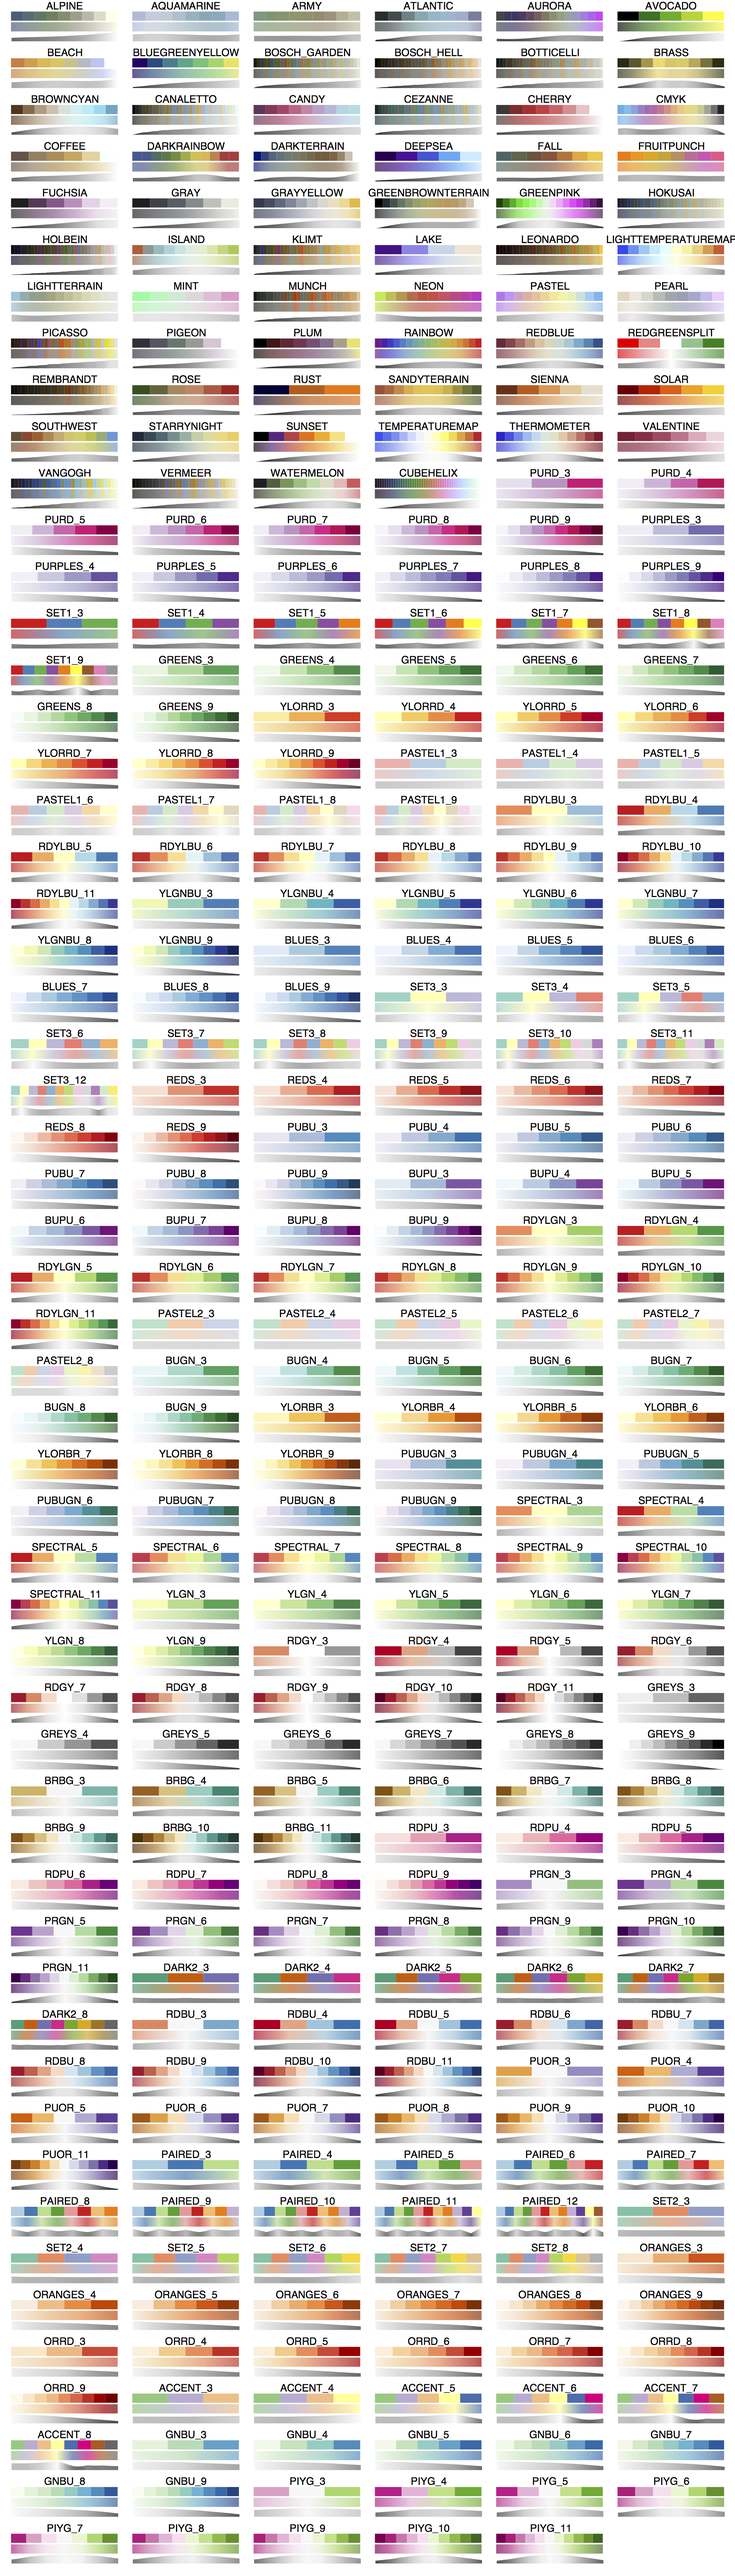
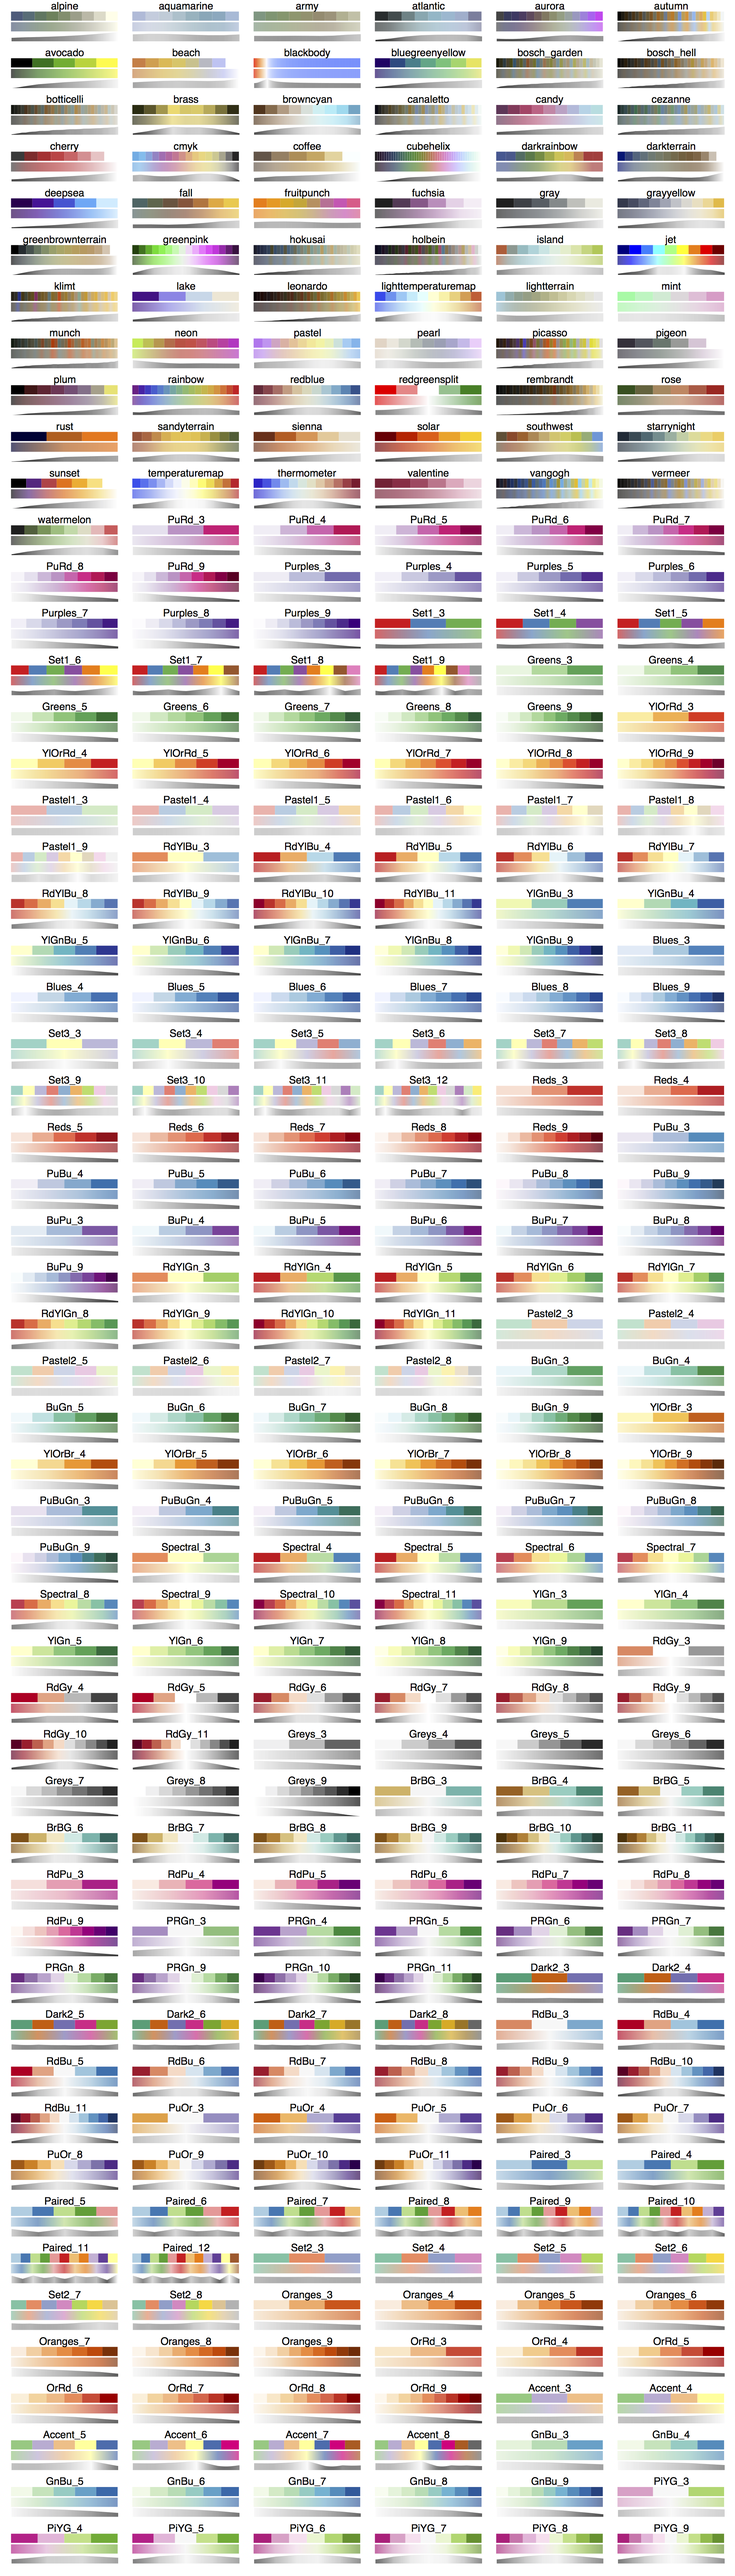
update docs

diff --git a/README.md b/README.md
@@ -7,6 +7,8 @@
 
 ## ColorSchemes
 
+<img src="doc/snapshot.png" width=600>
+
 This package provides tools for working with colorschemes and colormaps. As well as providing many pre-made colormaps and schemes, this package allows you to extract colorschemes from images and use them in plots or other graphics programs.
 
 This package relies on the [Colors.jl](https://github.com/JuliaGraphics/Colors.jl) package.
